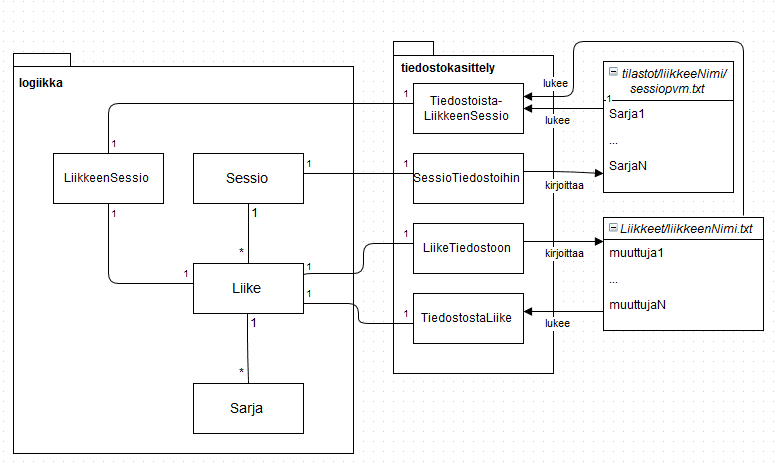
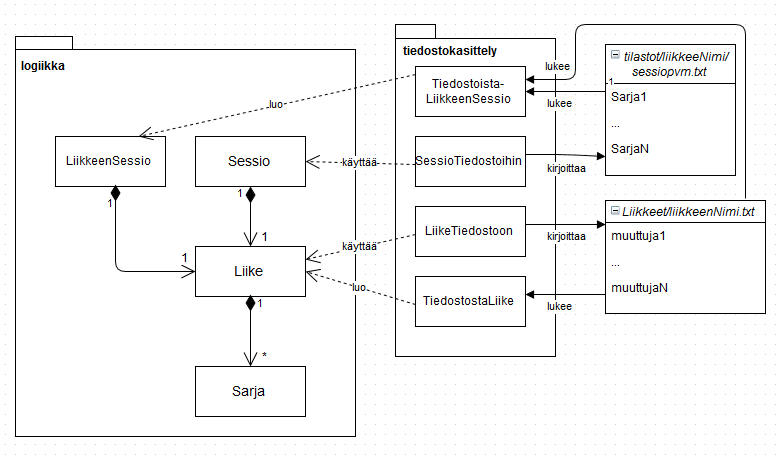
tiedostonkasittelyluokat muutettu staattiseksi, kaavio paivitetty

diff --git a/bodauslogi/src/test/java/bodauslogi/tiedostokasittely/SessioTiedostoihinTest.java b/bodauslogi/src/test/java/bodauslogi/tiedostokasittely/SessioTiedostoihinTest.java
@@ -19,7 +19,6 @@ public class SessioTiedostoihinTest {
     Sarja sarja1;
     Sarja sarja2;
     Sarja sarja3;
-    SessioTiedostoihin tallennus;
     File dataKansio;
     File penkkiKansio;
     File maveKansio;
@@ -29,7 +28,6 @@ public class SessioTiedostoihinTest {
     @Before
     public void setUp() {
         sessio = new Sessio(new Date(0));
-        tallennus = new SessioTiedostoihin(sessio);
         penkki = new Liike("penkki");
         mave = new Liike("mave");
         dataKansio = new File(Kansiot.DATA);
@@ -81,7 +79,7 @@ public class SessioTiedostoihinTest {
     @Test
     public void TilastotKansionLuontiJosEiAiemminOlemassaOnnistuu() throws Exception {
         if (!dataKansio.exists()) {
-            tallennus.luoTilastotKansio();
+            SessioTiedostoihin.luoDATAKansio();
         }
         assertTrue(dataKansio.exists());
     }
@@ -91,7 +89,7 @@ public class SessioTiedostoihinTest {
         sessio.lisaaLiike(mave);
         dataKansio.mkdir();
         if (!maveKansio.exists()) {
-            tallennus.luoKansiotLiikkeille();
+            SessioTiedostoihin.luoKansiotLiikkeille(sessio);
         }
         assertTrue(maveKansio.exists());
     }
@@ -102,7 +100,7 @@ public class SessioTiedostoihinTest {
         dataKansio.mkdir();
         maveKansio.mkdir();
         try {
-            tallennus.luoKansiotLiikkeille();
+            SessioTiedostoihin.luoKansiotLiikkeille(sessio);
         } catch (Exception e) {
             assertTrue(false);
         }
@@ -115,7 +113,7 @@ public class SessioTiedostoihinTest {
         dataKansio.mkdir();
         sessio.lisaaLiike(penkki);
         if (!maveKansio.exists() || !penkkiKansio.exists()) {
-            tallennus.luoKansiotLiikkeille();
+            SessioTiedostoihin.luoKansiotLiikkeille(sessio);
         }
         assertTrue(maveKansio.exists() && penkkiKansio.exists());
     }
@@ -125,7 +123,7 @@ public class SessioTiedostoihinTest {
         sessio.lisaaLiike(mave);
         dataKansio.mkdir();
         maveKansio.mkdir();
-        tallennus.kirjoitaSessioTiedostoihin();
+        SessioTiedostoihin.kirjoita(sessio);
         assertTrue(maveSessioTiedosto.exists());
     }
 
@@ -136,7 +134,7 @@ public class SessioTiedostoihinTest {
         dataKansio.mkdir();
         maveKansio.mkdir();
         penkkiKansio.mkdir();
-        tallennus.kirjoitaSessioTiedostoihin();
+        SessioTiedostoihin.kirjoita(sessio);
         assertTrue(maveSessioTiedosto.exists() && penkkiSessioTiedosto.exists());
     }
 
@@ -146,7 +144,7 @@ public class SessioTiedostoihinTest {
         lisaaMaveSarjat();
         dataKansio.mkdir();
         maveKansio.mkdir();
-        tallennus.kirjoitaSessioTiedostoihin();
+        SessioTiedostoihin.kirjoita(sessio);
         Scanner lukija = new Scanner(maveSessioTiedosto);
         lukija.useDelimiter("\\Z");
         String tiedostonSisalto = lukija.next();
@@ -160,7 +158,7 @@ public class SessioTiedostoihinTest {
         lisaaPenkkiSarjat();
         dataKansio.mkdir();
         penkkiKansio.mkdir();
-        tallennus.kirjoitaSessioTiedostoihin();
+        SessioTiedostoihin.kirjoita(sessio);
         Scanner lukija = new Scanner(penkkiSessioTiedosto);
         lukija.useDelimiter("\\Z");
         String tiedostonSisalto = lukija.next();

diff --git a/bodauslogi/src/main/java/bodauslogi/tiedostokasittely/TiedostostaLiikkeenSessio.java b/bodauslogi/src/main/java/bodauslogi/tiedostokasittely/TiedostostaLiikkeenSessio.java
@@ -10,22 +10,17 @@ import java.util.Scanner;
 
 public class TiedostostaLiikkeenSessio {
 
-    private final File sessioTiedosto;
-    private final Scanner lukija;
-
-    public TiedostostaLiikkeenSessio(File sessioTiedosto) throws Exception {
-        this.sessioTiedosto = sessioTiedosto;
-        lukija = new Scanner(sessioTiedosto);
+    private TiedostostaLiikkeenSessio(){
     }
 
-    private Liike luoLiikeTiedostoista() throws Exception {
+    private static Liike luoLiike(File sessioTiedosto) throws Exception {
         String nimi = sessioTiedosto.getParentFile().getName();
         File liikeTiedosto = new File(Kansiot.LIIKKEET + "/" + nimi + ".txt");
-        Liike liike = new TiedostostaLiike(liikeTiedosto).luoLiike();
+        Liike liike = TiedostostaLiike.luoLiike(liikeTiedosto);
         return liike;
     }
 
-    private Sarja luoSarjaSessioTiedostosta() {
+    private static Sarja luoSarja(Scanner lukija) {
         Sarja sarja = new Sarja();
         String rivi = lukija.nextLine();
         rivi = rivi.substring(rivi.indexOf("{")+1, rivi.indexOf("}"));
@@ -43,19 +38,20 @@ public class TiedostostaLiikkeenSessio {
         return sarja;
     }
 
-    private Date luoPaivamaaraSessioTiedostosta() throws Exception {
+    private static Date luoPaivamaara(File sessioTiedosto) throws Exception {
         String pvm = sessioTiedosto.getName();
         pvm = pvm.substring(0,pvm.length() - 4);
         return new SimpleDateFormat("dd.MM.yyyy").parse(pvm);
     }
 
-    public LiikkeenSessio luoLiikkeenSessio() throws Exception {
-        Liike liike = luoLiikeTiedostoista();
+    public static LiikkeenSessio luo(File sessioTiedosto) throws Exception {
+        Scanner lukija = new Scanner(sessioTiedosto);
+        Liike liike = luoLiike(sessioTiedosto);
         while (lukija.hasNextLine()) {
-            liike.lisaaSarja(luoSarjaSessioTiedostosta());
+            liike.lisaaSarja(luoSarja(lukija));
         }
         lukija.close();
-        return new LiikkeenSessio(liike, luoPaivamaaraSessioTiedostosta());
+        return new LiikkeenSessio(liike, luoPaivamaara(sessioTiedosto));
     }
 
 }

diff --git a/bodauslogi/src/test/java/bodauslogi/tiedostokasittely/TiedostostaLiikkeenSessioTest.java b/bodauslogi/src/test/java/bodauslogi/tiedostokasittely/TiedostostaLiikkeenSessioTest.java
@@ -18,7 +18,6 @@ public class TiedostostaLiikkeenSessioTest {
     private File liikkeetKansio;
     private File sessioTiedosto;
     private File liikeTiedosto;
-    private TiedostostaLiikkeenSessio liises;
 
     @Before
     public void setUp() throws Exception {
@@ -36,7 +35,6 @@ public class TiedostostaLiikkeenSessioTest {
         FileWriter muuttujaKirjoittaja = new FileWriter(liikeTiedosto);
         muuttujaKirjoittaja.write("pisteitä\nankka");
         muuttujaKirjoittaja.close();
-        liises = new TiedostostaLiikkeenSessio(sessioTiedosto);
     }
 
     @After
@@ -58,24 +56,24 @@ public class TiedostostaLiikkeenSessioTest {
 
     @Test
     public void luodunLiikkeenNimiOikein() throws Exception {
-        assertEquals("lehdenluku", liises.luoLiikkeenSessio().getLiike().getNimi());
+        assertEquals("lehdenluku", TiedostostaLiikkeenSessio.luo(sessioTiedosto).getLiike().getNimi());
     }
 
     @Test
     public void luodunLiikkeenSarjatOikein() throws Exception {
         assertEquals("[{pisteitä:60.0,ankka:5.0}, {pisteitä:40.0,ankka:null}]",
-                liises.luoLiikkeenSessio().getLiike().getSarjaLista().toString());
+                TiedostostaLiikkeenSessio.luo(sessioTiedosto).getLiike().getSarjaLista().toString());
     }
 
     @Test
     public void luodunLiikkeenMuuttujatOikein() throws Exception {
         assertArrayEquals(new String[]{"pisteitä", "ankka"},
-                liises.luoLiikkeenSessio().getLiike().getMuuttujaJoukko().toArray(new String[0]));
+                TiedostostaLiikkeenSessio.luo(sessioTiedosto).getLiike().getMuuttujaJoukko().toArray(new String[0]));
     }
 
     @Test
     public void luodunLiikkeenSessionPaivamaarOikein() throws Exception {
         assertEquals(new SimpleDateFormat("dd.MM.yyyy").parse("04.07.2014"),
-                liises.luoLiikkeenSessio().getPaivamaara());
+                TiedostostaLiikkeenSessio.luo(sessioTiedosto).getPaivamaara());
     }
 }

diff --git a/bodauslogi/src/test/java/bodauslogi/tiedostokasittely/LiikeTiedostoonTest.java b/bodauslogi/src/test/java/bodauslogi/tiedostokasittely/LiikeTiedostoonTest.java
@@ -15,14 +15,12 @@ public class LiikeTiedostoonTest {
     Liike penkki;
     File liikkeetKansio;
     File penkkiTiedosto;
-    LiikeTiedostoon tallennus;
 
     @Before
     public void setUp() throws Exception {
         penkki = new Liike("penkki");
         liikkeetKansio = new File(Kansiot.LIIKKEET);
         penkkiTiedosto = new File(Kansiot.LIIKKEET + "/penkki.txt");
-        tallennus = new LiikeTiedostoon(penkki);
     }
 
     @After
@@ -38,7 +36,7 @@ public class LiikeTiedostoonTest {
     @Test
     public void LiikkeetKansionLuontiJosEiAiemminOlemassaOnnistuu() throws Exception {
         if (!liikkeetKansio.exists()) {
-            tallennus.luoLiikkeetKansio();
+            LiikeTiedostoon.luoLiikkeetKansio();
         }
         assertTrue(liikkeetKansio.exists());
     }
@@ -47,7 +45,7 @@ public class LiikeTiedostoonTest {
     public void LiikeTiedostonLuontiOnnistuu() throws Exception {
         liikkeetKansio.mkdir();
         penkki.lisaaMuuttuja("paino");
-        tallennus.kirjoitaMuuttujatTiedostoon();
+        LiikeTiedostoon.kirjoita(penkki);
         assertTrue(penkkiTiedosto.exists());
     }
 
@@ -56,7 +54,7 @@ public class LiikeTiedostoonTest {
         liikkeetKansio.mkdir();
         penkki.lisaaMuuttuja("paino");
         penkki.lisaaMuuttuja("toistot");
-        tallennus.kirjoitaMuuttujatTiedostoon();
+        LiikeTiedostoon.kirjoita(penkki);
         Scanner lukija = new Scanner(penkkiTiedosto);
         lukija.useDelimiter("\\Z");
         String tiedostonSisalto = "";

diff --git a/bodauslogi/src/main/java/bodauslogi/tiedostokasittely/SessioTiedostoihin.java b/bodauslogi/src/main/java/bodauslogi/tiedostokasittely/SessioTiedostoihin.java
@@ -8,26 +8,23 @@ import java.text.SimpleDateFormat;
 
 public class SessioTiedostoihin {
 
-    private final Sessio sessio;
-    private final String pvmteksti;
-
-    public SessioTiedostoihin(Sessio sessio) {
-        this.pvmteksti = new SimpleDateFormat("dd.MM.yyyy").format(sessio.getPaivamaara());
-        this.sessio = sessio;
+    private SessioTiedostoihin() {
     }
 
-    public void luoTilastotKansio() throws Exception {
+    public static void luoDATAKansio() throws Exception {
         new File(Kansiot.DATA).mkdir();
     }
 
-    public void luoKansiotLiikkeille() throws Exception {
+    public static void luoKansiotLiikkeille(Sessio sessio) throws Exception {
         for (String liikkeenNimi : sessio.getLiikkeidenNimienJoukko()) {
             new File(Kansiot.DATA + "/" + liikkeenNimi + "/").mkdir();
         }
     }
 
-    public void kirjoitaSessioTiedostoihin() throws Exception {
+    public static void kirjoita(Sessio sessio) throws Exception {
+        
         for (String liikkeenNimi : sessio.getLiikkeidenNimienJoukko()) {
+            String pvmteksti = new SimpleDateFormat("dd.MM.yyyy").format(sessio.getPaivamaara());
             File sessioTiedosto = new File(Kansiot.DATA+"/" + liikkeenNimi + "/" + pvmteksti + ".txt");
             FileWriter kirjoittaja = new FileWriter(sessioTiedosto);
             for (Sarja sarja : sessio.getLiike(liikkeenNimi).getSarjaLista()) {

diff --git a/bodauslogi/src/test/java/bodauslogi/tiedostokasittely/TiedostostaLiikeTest.java b/bodauslogi/src/test/java/bodauslogi/tiedostokasittely/TiedostostaLiikeTest.java
@@ -13,7 +13,6 @@ import static org.junit.Assert.*;
 public class TiedostostaLiikeTest {
     File testiLiikeTiedosto;
     File liikkeetKansio;
-    TiedostostaLiike liikkeenLuoja;
     
     @Before
     public void setUp() throws Exception{
@@ -23,7 +22,6 @@ public class TiedostostaLiikeTest {
         FileWriter kirjoittaja = new FileWriter(testiLiikeTiedosto);
         kirjoittaja.write("kenkä\nkukka");
         kirjoittaja.close();
-        liikkeenLuoja = new TiedostostaLiike(testiLiikeTiedosto);
     }
     
     @After
@@ -37,14 +35,14 @@ public class TiedostostaLiikeTest {
     }
     
     @Test
-    public void luodunLiikkeeNimiOikein(){
-        Liike liike = liikkeenLuoja.luoLiike();
+    public void luodunLiikkeeNimiOikein() throws Exception{
+        Liike liike = TiedostostaLiike.luoLiike(testiLiikeTiedosto);
         assertEquals("testi", liike.getNimi());
     }
     
     @Test
-    public void luotuLiikeSisaltaaMuuttujatKenkaJaKukka(){
-        Liike liike = liikkeenLuoja.luoLiike();
+    public void luotuLiikeSisaltaaMuuttujatKenkaJaKukka() throws Exception{
+        Liike liike = TiedostostaLiike.luoLiike(testiLiikeTiedosto);
         assertArrayEquals(new String[]{"kenkä","kukka"},liike.getMuuttujaJoukko().toArray(new String[0]));
     }
 

diff --git a/bodauslogi/src/main/java/bodauslogi/tiedostokasittely/LiikeTiedostoon.java b/bodauslogi/src/main/java/bodauslogi/tiedostokasittely/LiikeTiedostoon.java
@@ -1,29 +1,25 @@
 package bodauslogi.tiedostokasittely;
-
+ 
 import bodauslogi.logiikka.Liike;
 import java.io.File;
 import java.io.FileWriter;
-
+ 
 public class LiikeTiedostoon {
-
-    private final Liike liike;
-    private final File liikeTiedosto;
-
-    public LiikeTiedostoon(Liike liike) {
-        this.liike = liike;
-        this.liikeTiedosto = new File(Kansiot.LIIKKEET + "/" + liike.getNimi() + ".txt");
+ 
+    private LiikeTiedostoon() {
     }
-
-    public void luoLiikkeetKansio() throws Exception {
+ 
+    public static void luoLiikkeetKansio() throws Exception {
         new File(Kansiot.LIIKKEET).mkdir();
     }
-
-    public void kirjoitaMuuttujatTiedostoon() throws Exception {
-        FileWriter kirjoittaja = new FileWriter(this.liikeTiedosto);
+ 
+    public static void kirjoita(Liike liike) throws Exception {
+        File liikeTiedosto = new File(Kansiot.LIIKKEET + "/" + liike.getNimi() + ".txt");
+        FileWriter kirjoittaja = new FileWriter(liikeTiedosto);
         for (String muuttuja : liike.getMuuttujaJoukko()) {
             kirjoittaja.write(muuttuja + "\n");
         }
         kirjoittaja.close();
     }
-
+ 
 }

diff --git a/bodauslogi/src/main/java/bodauslogi/tiedostokasittely/TiedostostaLiike.java b/bodauslogi/src/main/java/bodauslogi/tiedostokasittely/TiedostostaLiike.java
@@ -6,17 +6,13 @@ import java.util.Scanner;
 
 public class TiedostostaLiike {
 
-    private final File liikeTiedosto;
-    private final Scanner lukija;
-
-    public TiedostostaLiike(File liikeTiedosto) throws Exception {
-        this.liikeTiedosto = liikeTiedosto;
-        lukija = new Scanner(liikeTiedosto);
+    private TiedostostaLiike() {
     }
 
-    public Liike luoLiike() {
+    public static Liike luoLiike(File liikeTiedosto) throws Exception {
+        Scanner lukija = new Scanner(liikeTiedosto);
         String nimi = liikeTiedosto.getName();
-        nimi = nimi.substring(0,nimi.length() - 4);
+        nimi = nimi.substring(0, nimi.length() - 4);
         Liike liike = new Liike(nimi);
         while (lukija.hasNextLine()) {
             liike.lisaaMuuttuja(lukija.nextLine());

diff --git a/bodauslogi/src/main/java/bodauslogi/App.java b/bodauslogi/src/main/java/bodauslogi/App.java
@@ -1,17 +1,8 @@
 package bodauslogi;
 
-import bodauslogi.logiikka.Liike;
-import bodauslogi.logiikka.Sarja;
-import bodauslogi.logiikka.Sessio;
-import bodauslogi.tiedostokasittely.SessioTiedostoihin;
-import java.io.File;
-import java.io.IOException;
-import java.util.Date;
+import bodauslogi.logiikka.*;
+import bodauslogi.tiedostokasittely.*;
 
-/**
- * Hello world!
- *
- */
 public class App {
 
     public static void main(String[] args) {
